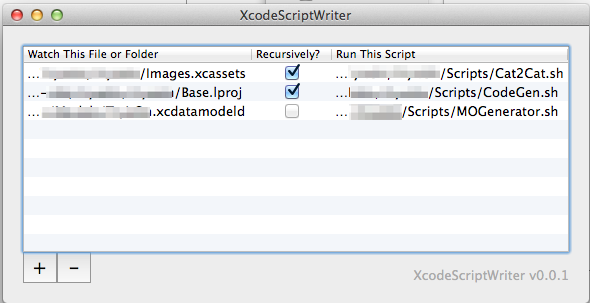
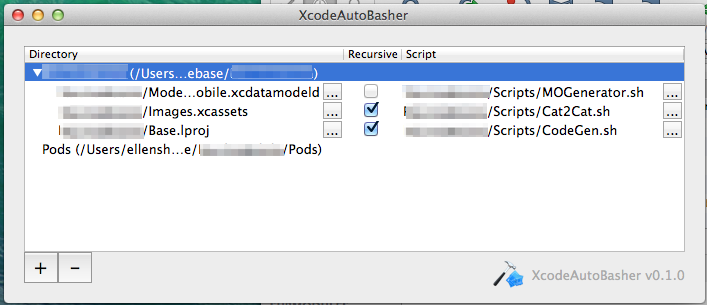
Update screenshot and README.

diff --git a/README.md b/README.md
@@ -1,5 +1,7 @@
-XcodeScriptWriter
+XcodeAutoBasher
 =================
+
+![](XcodeAutoBasher/XcodeAutoBasher/xcab_logo.png)
 
 #What
 
@@ -17,7 +19,7 @@ My idea was to create something that could do all of the following:
 - Watch the folder where all my Storyboards live and run a script that fires off [objc-identifierconstants](https://github.com/square/objc-codegenutils) when one of my storyboards is changed. 
 - Watch my `.xcdatamodeld` and fire off [MOGenerator](https://github.com/rentzsch/mogenerator) anytime a change to the data model is saved. 
 
-The product of that thought process is `XcodeScriptWriter`. 
+The product of that thought process is `XcodeAutoBasher`. 
 
 #Where
 Eventually: [Alcatraz](http://alcatraz.io). 
@@ -30,22 +32,36 @@ Until then (or if you hate convenience):
 
 #How
 
-After installing, once you restart Xcode, there will be a new option under the `Window` menu for `XcodeScriptWriter`. Open that up, and you will see a window that allows you to add folders. 
+After installing, once you restart Xcode, there will be a new option under the `Window` menu for `XcodeAutoBasher`. Open that up, and you will see a window showing any currently running projects. Select a currently open project, then:  
 
-1. Click the plus button to add a row. 
-2. Click in the area of the first column to bring up a file selection dialog where you can pick what file or folder you wish to observe.
+1. Click the plus button to add a row to watch a script. *(Note: You may have to open the flippy triangle next to the project to see the row you added.)*
+
+2. Click the `...` button on the first column to bring up a file selection dialog where you can pick what file or folder you wish to observe.
+
 3. Check the checkbox if you want to watch this folder recursively (ie, if you want to watch all of its children as well).
-4. Click in the area of the third column to bring up a file selection dialog where you can pick the script you want to run when a change is detected. 
 
-**Note**: You should verify your script runs via the Terminal *before* you try to add it to `XcodeScriptWriter`—this will significantly narrow down your "Is this plugin screwing up or is it me?" troubleshooting time.  Scripts should be executable on their own—that is, they should have the executable bit set (`chmod +x ...`) and the first line should be something like `#!/bin/bash` or `#!/usr/bin/env python` (a "[shebang](http://en.wikipedia.org/wiki/Shebang_(Unix))").
+4. Click the `...` button on the third column to bring up a file selection dialog where you can pick the script you want to run when a change is detected. 
 
+5. A file will be added to the same folder as your `.xcodeproj` file, `[your project name].XcAB.plist`, which will store relative paths to each script within your project. This allows the `plist` files to be committed to version control so anyone opening the project can have this already set up. 
+
+###Notes on Script Setup
+- Your scripts should be within the same directory structure as your `.xcodeproj` file, since this plugin will be looking for children of `SRCROOT`. This allows `XcodeAutoBasher` to only watch currently open projects, as well as allowing anyone who checks out your project to have `XcodeAutoBasher` work immediately.  
+
+- You should verify your script runs via the Terminal *before* you try to add it to `XcodeAutoBasher`—this will significantly narrow down your "Is this plugin screwing up or is it me?" troubleshooting time.  
+
+- Scripts should be executable on their own—that is, they should have the executable bit set (`chmod +x ...`) and the first line should be something like `#!/bin/bash` or `#!/usr/bin/env python` (a "[shebang](http://en.wikipedia.org/wiki/Shebang_(Unix))").
+
+- To see if a script is executable, cd into its directory and run `ls -la`. If the `x` bit is not set, run `chmod +x [filename]`, and then run `ls -la` again to verify the bit is now set. 
 
 #When
 RIGHT NOW!!!
 
 #Who
-Initially a [VOKAL](http://www.vokalinteractive.com) Hack Days Fall 2014 Project by [Ellen Shapiro](http://github.com/designatednerd). Open source contributions are encouraged!
+Initially a [VOKAL](http://www.vokalinteractive.com) Hack Days Fall 2014 Project by [Ellen Shapiro](http://github.com/designatednerd). Massively improved by the desktop programming skillz of [Isaac Greenspan](http://github.com/ilg). 
+
+Open source contributions are encouraged!
 
 #//TODO: 
 - Get plugin up on Alcatraz
+- Animate smashing of Xcode logo, because that would be awesome. 
 - ??? File an issue or put up a pull request!
